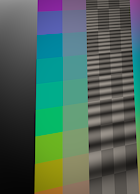
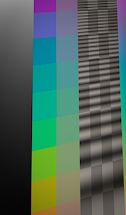
Add apsect slider

diff --git a/crates/calibraw-core/src/pipeline/geometry.rs b/crates/calibraw-core/src/pipeline/geometry.rs
@@ -136,6 +136,11 @@ pub struct GeometryTransform {
     /// (`migrations::older_readers`).
     #[serde(default, skip_serializing_if = "PerspectiveCorrection::is_identity")]
     pub perspective: PerspectiveCorrection,
+    /// Stretch of the output along its axes before quarter turns, from -100 to 100: its width
+    /// over its height is multiplied by `2^(value / 100)` at the same pixel count. Sidecars with
+    /// one are written as schema 3.
+    #[serde(default, skip_serializing_if = "is_zero")]
+    pub aspect_stretch: f32,
 }
 
 const fn default_crop_rect() -> [f32; 4] {
@@ -154,12 +159,16 @@ impl Default for GeometryTransform {
             horizontal_skew_degrees: 0.0,
             vertical_skew_degrees: 0.0,
             perspective: PerspectiveCorrection::default(),
+            aspect_stretch: 0.0,
         }
     }
 }
 
 impl GeometryTransform {
     pub const MIN_CROP_EXTENT: f32 = 0.01;
+    /// Largest [`Self::aspect_stretch`] either way, which doubles or halves the output's width
+    /// over its height.
+    pub const MAX_ASPECT_STRETCH: f32 = 100.0;
 
     pub fn sanitized(mut self) -> Self {
         for value in &mut self.crop {
@@ -177,6 +186,11 @@ impl GeometryTransform {
         self.horizontal_skew_degrees = finite_clamp(self.horizontal_skew_degrees, -30.0, 30.0);
         self.vertical_skew_degrees = finite_clamp(self.vertical_skew_degrees, -30.0, 30.0);
         self.perspective = self.perspective.sanitized();
+        self.aspect_stretch = finite_clamp(
+            self.aspect_stretch,
+            -Self::MAX_ASPECT_STRETCH,
+            Self::MAX_ASPECT_STRETCH,
+        );
         self
     }
 
@@ -190,17 +204,20 @@ impl GeometryTransform {
             && value.horizontal_skew_degrees.abs() < 1e-4
             && value.vertical_skew_degrees.abs() < 1e-4
             && value.perspective.is_identity()
+            && value.aspect_stretch.abs() < 1e-4
     }
 
-    /// Output size in pixels: the crop's share of the corrected frame (see [`GeometryMapping`]).
+    /// Output size in pixels: the crop's share of the corrected frame, stretched for the aspect
+    /// (see [`GeometryMapping`]).
     pub fn crop_pixel_dimensions(self, source_width: u32, source_height: u32) -> (u32, u32) {
         let value = self.sanitized();
         let [frame_width, frame_height] =
             GeometryMapping::new(value, source_width, source_height).frame_size();
-        let width = ((value.crop[2] - value.crop[0]) * frame_width)
+        let [stretch_x, stretch_y] = value.aspect_stretch_factors().map(|factor| factor as f32);
+        let width = ((value.crop[2] - value.crop[0]) * frame_width * stretch_x)
             .round()
             .max(1.0) as u32;
-        let height = ((value.crop[3] - value.crop[1]) * frame_height)
+        let height = ((value.crop[3] - value.crop[1]) * frame_height * stretch_y)
             .round()
             .max(1.0) as u32;
         if value.quarter_turns.is_multiple_of(2) {
@@ -222,12 +239,16 @@ impl GeometryTransform {
     }
 
     /// The crop's width / height in units normalized to the corrected frame for the chosen
-    /// aspect ratio, which applies to the output as displayed (after quarter turns).
-    /// `Original` is the source's own shape.
+    /// aspect ratio, which applies to the output as displayed (after the aspect stretch and
+    /// quarter turns). `Original` is the source's own shape.
     pub fn normalized_crop_aspect(self, source_width: u32, source_height: u32) -> Option<f32> {
         let [frame_width, frame_height] =
             GeometryMapping::new(self, source_width, source_height).frame_size();
-        let frame_aspect = frame_width / frame_height;
+        let [stretch_x, stretch_y] = self
+            .sanitized()
+            .aspect_stretch_factors()
+            .map(|factor| factor as f32);
+        let frame_aspect = frame_width * stretch_x / (frame_height * stretch_y);
         let swapped = self.quarter_turns % 2 == 1;
         let (output_width, output_height) = if swapped {
             (source_height, source_width)
@@ -244,8 +265,6 @@ impl GeometryTransform {
         (normalized.is_finite() && normalized > f32::EPSILON).then_some(normalized)
     }
 
-    /// Shrinks the crop about its centre until it fits inside the transformed source, moving
-    /// it no further than needed. Returns whether it changed.
     /// Reshapes the crop about its centre to the chosen aspect ratio by shortening one side,
     /// keeping it within the frame; `Free` leaves it as it is.
     pub fn conform_crop_to_aspect(&mut self, source_width: u32, source_height: u32) {
@@ -271,6 +290,8 @@ impl GeometryTransform {
         self.crop = [left, top, left + width, top + height];
     }
 
+    /// Shrinks the crop about its centre until it fits inside the transformed source, moving
+    /// it no further than needed. Returns whether it changed.
     pub fn fit_crop_inside_transformed_source(
         &mut self,
         source_width: u32,
@@ -433,6 +454,47 @@ impl GeometryTransform {
         }
     }
 
+    /// The aspect stretch as the photo is displayed, after quarter turns: positive values make
+    /// it wider.
+    pub fn displayed_aspect_stretch(self) -> f32 {
+        if self.quarter_turns % 2 == 1 {
+            -self.aspect_stretch
+        } else {
+            self.aspect_stretch
+        }
+    }
+
+    /// Sets the aspect stretch from its displayed value (see
+    /// [`Self::displayed_aspect_stretch`]).
+    pub fn set_displayed_aspect_stretch(&mut self, displayed: f32) {
+        self.aspect_stretch = if self.quarter_turns % 2 == 1 {
+            -displayed
+        } else {
+            displayed
+        };
+    }
+
+    /// How much the aspect stretch scales the displayed photo horizontally and vertically.
+    pub fn displayed_stretch_factors(self) -> [f32; 2] {
+        let [x, y] = self
+            .sanitized()
+            .aspect_stretch_factors()
+            .map(|factor| factor as f32);
+        if self.quarter_turns % 2 == 1 {
+            [y, x]
+        } else {
+            [x, y]
+        }
+    }
+
+    /// How much [`Self::aspect_stretch`] scales the output's width and height, before quarter
+    /// turns. Their product is 1, and both are exactly 1 without a stretch.
+    fn aspect_stretch_factors(self) -> [f64; 2] {
+        // Each side takes half of the ratio's change, 2^(value / 100).
+        let half_log2 = 0.5 * f64::from(self.aspect_stretch) / 100.0;
+        [half_log2.exp2(), (-half_log2).exp2()]
+    }
+
     /// Which source side the displayed side `side` shows, as `[pitch, yaw]` signs: widening it
     /// adds to exactly one of them.
     fn source_side(self, [x, y]: [i8; 2]) -> [f32; 2] {
@@ -453,6 +515,10 @@ impl GeometryTransform {
 
 /// The displayed top and right side, as directions in y-down coordinates.
 const DISPLAYED_SIDES: [[i8; 2]; 2] = [[0, -1], [1, 0]];
+
+fn is_zero(value: &f32) -> bool {
+    *value == 0.0
+}
 
 fn finite_clamp(value: f32, min: f32, max: f32) -> f32 {
     if value.is_finite() {

diff --git a/crates/calibraw-core/src/pipeline/geometry/mapping.rs b/crates/calibraw-core/src/pipeline/geometry/mapping.rs
@@ -117,15 +117,18 @@ impl Homography {
 /// The perspective correction `G` maps them into perspective space, where the corrected frame is
 /// the bounding box of the corrected source. Frame pixels are perspective-space positions with
 /// the frame's top-left corner at 0. A source position `p` lands in the output at
-/// `Q · A · (G(p) - c)` from its centre: `A = R · S · F` rotates, skews and flips, `Q` applies
-/// the quarter turns and `c` is the crop centre in frame pixels. Without perspective `G` is the
-/// identity and the frame is the source.
+/// `Q · Σ · A · (G(p) - c)` from its centre: `A = R · S · F` rotates, skews and flips, `Σ`
+/// stretches for the aspect, `Q` applies the quarter turns and `c` is the crop centre in frame
+/// pixels. Without perspective `G` is the identity and the frame is the source.
 ///
 /// The stored crop is normalized to the frame: its centre is `c` and its extent is the output
-/// size before quarter turns. The crop workspace shows the frame with `A` applied about the
-/// frame centre, so the image stays put while the crop changes; the crop is axis-aligned there.
+/// size before `Σ` and `Q`. The crop workspace shows the frame with `A` applied about the frame
+/// centre, so the image stays put while the crop changes; the crop is axis-aligned there.
 /// Workspace coordinates are normalized to the frame, before quarter turns; the canvas shows the
 /// workspace after them.
+///
+/// `Σ` is diagonal, so it only changes sizes in pixels: positions normalized to the output, the
+/// workspace or the canvas do not depend on it, and neither does where the crop fits.
 #[derive(Clone, Copy, Debug)]
 pub struct GeometryMapping {
     quarter_turns: u8,
@@ -135,11 +138,13 @@ pub struct GeometryMapping {
     /// `A`.
     linear: [[f64; 2]; 2],
     linear_inverse: [[f64; 2]; 2],
+    /// `Σ`, as its scale of the output's width and height.
+    stretch: [f64; 2],
     source_size: [f64; 2],
     frame_size: [f64; 2],
     /// Crop centre in frame pixels.
     crop_center: [f64; 2],
-    /// Crop size in output pixels before quarter turns.
+    /// Crop size in output pixels before `Σ` and quarter turns.
     crop_size: [f64; 2],
 }
 
@@ -172,6 +177,7 @@ impl GeometryMapping {
             source_from_frame: frame_from_source.inverse(),
             linear,
             linear_inverse: inverse_2x2(linear),
+            stretch: geometry.aspect_stretch_factors(),
             source_size,
             frame_size: [max[0] - min[0], max[1] - min[1]],
             crop_center: [0.0; 2],
@@ -211,7 +217,15 @@ impl GeometryMapping {
 
     /// Size of the output in pixels, after quarter turns.
     pub fn output_size(&self) -> [f32; 2] {
-        self.turned(self.crop_size).map(|value| value as f32)
+        self.turned(self.stretched(self.crop_size))
+            .map(|value| value as f32)
+    }
+
+    /// Size of the crop canvas in pixels, after quarter turns: the frame, stretched like the
+    /// output.
+    pub fn canvas_size(&self) -> [f32; 2] {
+        self.turned(self.stretched(self.frame_size))
+            .map(|value| value as f32)
     }
 
     /// Normalized source position to output position, 0–1 across the cropped output after
@@ -315,6 +329,11 @@ impl GeometryMapping {
         Homography::affine(scaled, [0.5 - moved_center[0], 0.5 - moved_center[1]])
     }
 
+    /// `size` (before quarter turns) stretched by `Σ`.
+    fn stretched(&self, size: [f64; 2]) -> [f64; 2] {
+        [size[0] * self.stretch[0], size[1] * self.stretch[1]]
+    }
+
     /// `size` after quarter turns.
     fn turned(&self, size: [f64; 2]) -> [f64; 2] {
         if self.quarter_turns.is_multiple_of(2) {
@@ -365,7 +384,8 @@ impl GeometryMapping {
         })
     }
 
-    /// `A⁻¹ · offset`: the frame offset that `A` turns into the output offset `offset`.
+    /// `A⁻¹ · offset`: the frame offset that `A` turns into the output offset `offset`, before
+    /// `Σ`.
     pub(super) fn unrotate(&self, offset: [f64; 2]) -> [f64; 2] {
         apply_2x2(self.linear_inverse, offset)
     }

diff --git a/crates/calibraw-ui/src/ui/sidebar/crop.rs b/crates/calibraw-ui/src/ui/sidebar/crop.rs
@@ -173,6 +173,18 @@ impl Sidebar {
                 }
                 app.develop.geometry.set_displayed_perspective(perspective);
             }
+            let mut aspect = app.develop.geometry.displayed_aspect_stretch();
+            if AdjustmentSlider::new(
+                "Aspect",
+                &mut aspect,
+                -GeometryTransform::MAX_ASPECT_STRETCH..=GeometryTransform::MAX_ASPECT_STRETCH,
+            )
+            .decimals(0)
+            .step(1.0)
+            .show(ui)
+            {
+                app.develop.geometry.set_displayed_aspect_stretch(aspect);
+            }
             AdjustmentSlider::new(
                 "Horizontal skew",
                 &mut app.develop.geometry.horizontal_skew_degrees,
@@ -197,7 +209,8 @@ impl Sidebar {
             (geometry.rotation_degrees - before.rotation_degrees).abs() > 1e-6
                 || (geometry.horizontal_skew_degrees - before.horizontal_skew_degrees).abs() > 1e-6
                 || (geometry.vertical_skew_degrees - before.vertical_skew_degrees).abs() > 1e-6
-                || geometry.perspective != before.perspective;
+                || geometry.perspective != before.perspective
+                || geometry.aspect_stretch != before.aspect_stretch;
         if containment_transform_changed {
             app.refit_crop(source_dimensions.0, source_dimensions.1);
         } else {

diff --git a/crates/calibraw-ui/src/ui/preview/tools/crop.rs b/crates/calibraw-ui/src/ui/preview/tools/crop.rs
@@ -60,7 +60,13 @@ impl Preview {
                 if let Some(drag) = app.develop_ui.straighten_drag.take() {
                     let delta = drag.current - drag.start;
                     if delta.length() >= 12.0 {
-                        let angle = delta.y.atan2(delta.x).to_degrees();
+                        // The rotation acts before the aspect stretch, so the line is measured
+                        // unstretched.
+                        let [stretch_x, stretch_y] =
+                            app.develop.geometry.displayed_stretch_factors();
+                        let angle = (delta.y / stretch_y)
+                            .atan2(delta.x / stretch_x)
+                            .to_degrees();
                         let target = nearest_straight_axis_degrees(angle);
                         let correction = normalize_degrees(target - angle);
                         let rotation = app.develop.geometry.rotation_degrees + correction;

diff --git a/crates/calibraw-core/src/migrations/older_readers.rs b/crates/calibraw-core/src/migrations/older_readers.rs
@@ -21,8 +21,8 @@
 //!   report as newer instead of as corrupt, so they never replace the file
 //!   with an unedited one. Every other edit is written with schema 1, whose
 //!   layout schema 2 shares.
-//! - Up to v1.3, readers would drop a LUT or a perspective correction and
-//!   cannot decode a Select People mask. Edits with any of them are written
+//! - Up to v1.3, readers would drop a LUT, a perspective correction or an
+//!   aspect stretch and cannot decode a Select People mask. Edits with any of them are written
 //!   with schema 3, which shares the same layout and which those readers
 //!   report as newer.
 
@@ -99,6 +99,7 @@ pub(crate) fn schema_version(edits: &EditState, current: u32) -> u32 {
     if edits.look_lut.is_some()
         || masks.has_people_masks()
         || !edits.geometry.perspective.is_identity()
+        || edits.geometry.aspect_stretch != 0.0
     {
         return current;
     }

diff --git a/crates/calibraw-ui/src/services/replay/plan.rs b/crates/calibraw-ui/src/services/replay/plan.rs
@@ -103,6 +103,7 @@ pub(super) fn replay_stage_plan(
         current.geometry.horizontal_skew_degrees = final_geometry.horizontal_skew_degrees;
         current.geometry.vertical_skew_degrees = final_geometry.vertical_skew_degrees;
         current.geometry.perspective = final_geometry.perspective;
+        current.geometry.aspect_stretch = final_geometry.aspect_stretch;
         stages.push(ReplayStage {
             kind: ReplayStageKind::Transform,
             state: current.clone(),
@@ -196,6 +197,7 @@ fn transform_used(geometry: GeometryTransform) -> bool {
     geometry.horizontal_skew_degrees.abs() >= 1e-4
         || geometry.vertical_skew_degrees.abs() >= 1e-4
         || !geometry.perspective.is_identity()
+        || geometry.aspect_stretch.abs() >= 1e-4
 }
 
 fn masks_used(masks: &MaskStack) -> bool {

diff --git a/crates/calibraw-core/src/sidecar.rs b/crates/calibraw-core/src/sidecar.rs
@@ -29,8 +29,8 @@ pub use size_limits::*;
 // The newest schema of the "CalibRaw edit sidecar" format. Bump this for every incompatible
 // serialized layout change; pre-release AuRaw sidecars use a different format discriminator.
 // Schemas 2 and 3 share the layout of schema 1. Schema 2 adds the Relight effect and manual lens
-// correction, schema 3 the LUT and perspective correction; edits are written with the oldest schema that holds them
-// (`migrations::older_readers`).
+// correction, schema 3 the LUT, perspective correction and aspect stretch; edits are written with
+// the oldest schema that holds them (`migrations::older_readers`).
 pub const SIDECAR_SCHEMA_VERSION: u32 = 3;
 pub const DEVELOPED_THUMBNAIL_CACHE_VERSION_SALT: u64 = 0x4155_5241_5700_0007;
 pub const SIDECAR_SUFFIX: &str = ".calibraw";

diff --git a/crates/calibraw-ui/src/ui/preview/viewport.rs b/crates/calibraw-ui/src/ui/preview/viewport.rs
@@ -308,16 +308,12 @@ impl Preview {
                 .crop_pixel_dimensions(source_size.0, source_size.1)
         } else if crop_preview {
             // The canvas shows the corrected frame, which perspective makes larger than the
-            // source.
+            // source and the aspect stretches.
             let [width, height] =
                 GeometryMapping::new(input.geometry, source_size.0, source_size.1)
-                    .frame_size()
+                    .canvas_size()
                     .map(|extent| extent.round().max(1.0) as u32);
-            if input.geometry.quarter_turns % 2 == 1 {
-                (height, width)
-            } else {
-                (width, height)
-            }
+            (width, height)
         } else {
             source_size
         };

diff --git a/crates/calibraw-core/src/presets.rs b/crates/calibraw-core/src/presets.rs
@@ -29,8 +29,9 @@ use std::sync::Arc;
 pub const PRESET_SUFFIX: &str = ".calibraw-preset";
 /// The newest schema. Bump for every incompatible change to the serialized
 /// layout. Schemas 2 and 3 share the layout of schema 1; schema 2 adds the
-/// Relight effect and schema 3 the LUT and perspective correction. Presets are
-/// written with the oldest schema that holds them (`migrations::older_readers`).
+/// Relight effect and schema 3 the LUT, perspective correction and aspect
+/// stretch. Presets are written with the oldest schema that holds them
+/// (`migrations::older_readers`).
 pub const PRESET_SCHEMA_VERSION: u32 = 3;
 pub const DEFAULT_PRESET_GROUP: &str = "User Presets";
 pub const MAX_PRESET_NAME_CHARS: usize = 64;

diff --git a/crates/calibraw-core/src/pipeline/geometry/crop_fit.rs b/crates/calibraw-core/src/pipeline/geometry/crop_fit.rs
@@ -57,8 +57,8 @@ impl CropCenters {
     }
 }
 
-/// The centres, frame pixels, at which a crop of `size` (output pixels before quarter turns)
-/// lies inside the corrected source, or `None` when it fits nowhere.
+/// The centres, frame pixels, at which a crop of `size` (output pixels before the aspect stretch
+/// and quarter turns) lies inside the corrected source, or `None` when it fits nowhere.
 pub(super) fn feasible_crop_centers(
     mapping: &GeometryMapping,
     size: [f64; 2],

diff --git a/crates/calibraw-core/src/pipeline/geometry/perspective/estimate.rs b/crates/calibraw-core/src/pipeline/geometry/perspective/estimate.rs
@@ -66,8 +66,11 @@ pub fn estimate_perspective(
     geometry: GeometryTransform,
     focal_length_35mm: f32,
 ) -> Option<PerspectiveEstimate> {
+    // The aspect stretch keeps lines upright and is the user's to choose, so the estimate
+    // leaves it out.
     let geometry = GeometryTransform {
         perspective: PerspectiveCorrection::default(),
+        aspect_stretch: 0.0,
         ..geometry.sanitized()
     };
     let (width, height) = (image.width(), image.height());
